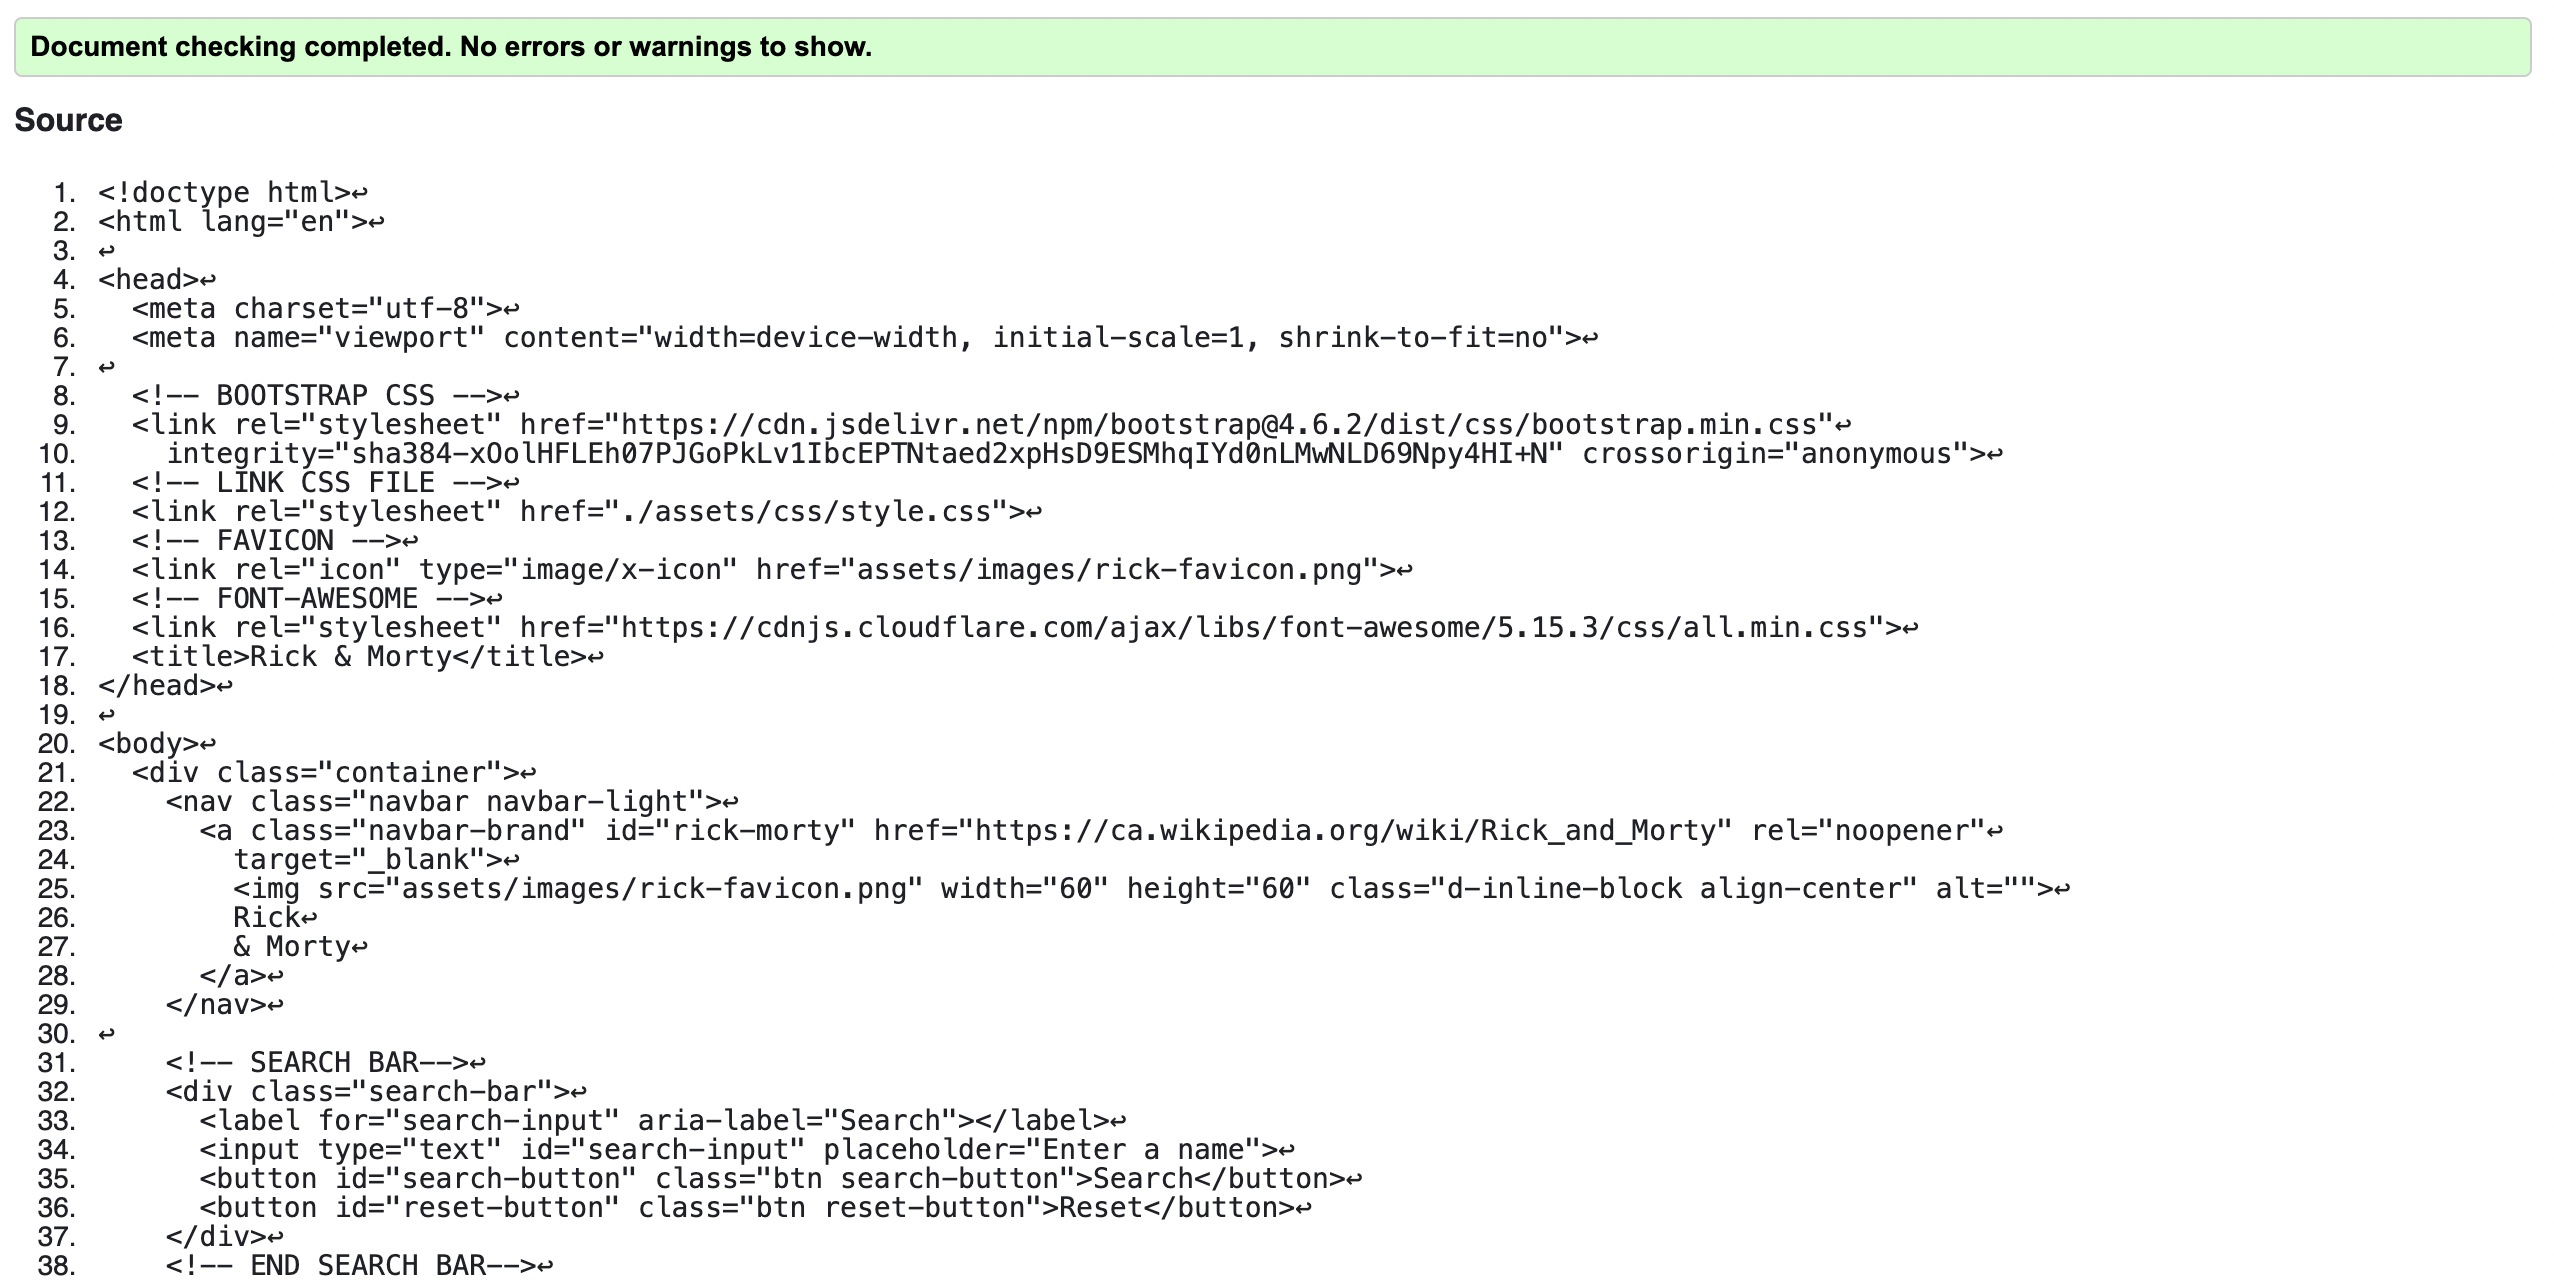
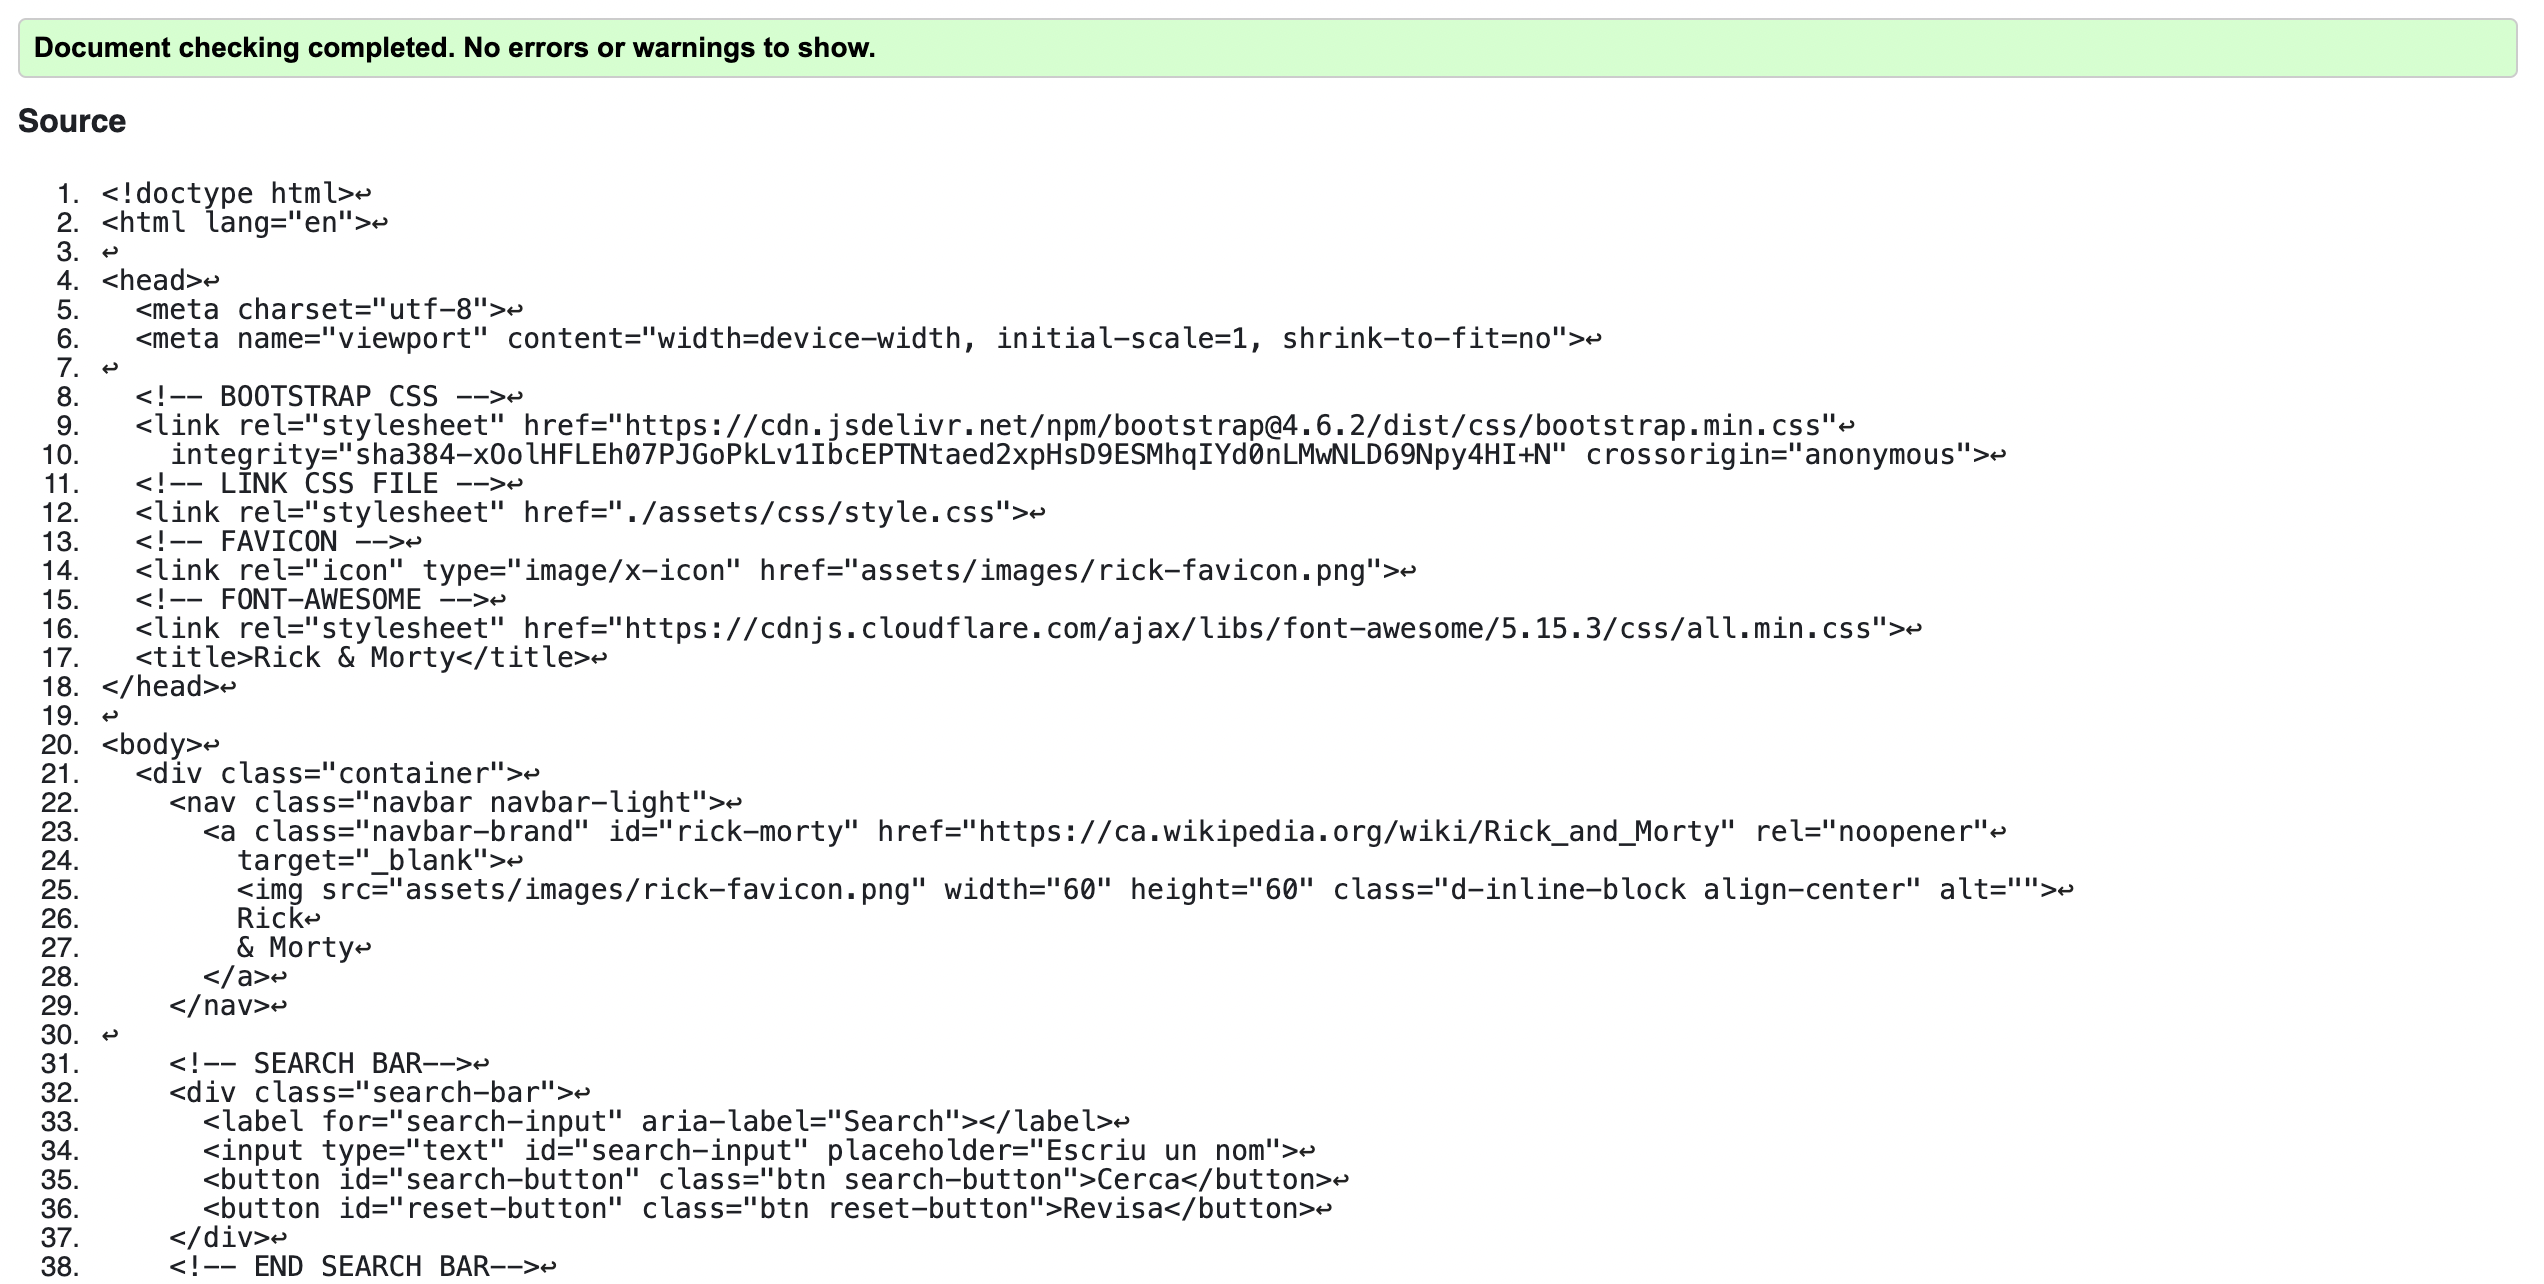
Fix card height and laout bugs. Update README.

Changed region(s): [[0.0, 0.0312, 0.8074, 0.9969], [0.9627, 0.0312, 0.9937, 0.0623]]

diff --git a/assets/js/script.js b/assets/js/script.js
@@ -47,15 +47,15 @@ async function fetchCharacters() {
 
       const statusText = document.createElement('p');
       statusText.classList.add('card-text');
-      statusText.innerHTML = `<u class="card-text-headings">Status</u>: ${character.status}`;
+      statusText.innerHTML = `<u class="card-text-headings">Estat</u>: ${character.status}`;
 
       const speciesText = document.createElement('p');
       speciesText.classList.add('card-text');
-      speciesText.innerHTML = `<u class="card-text-headings">Species</u>: ${character.species}`;
+      speciesText.innerHTML = `<u class="card-text-headings">Espècie</u>: ${character.species}`;
 
       const locationText = document.createElement('p');
       locationText.classList.add('card-text');
-      locationText.innerHTML = `<u class="card-text-headings">Location</u>: ${character.location.name}`;
+      locationText.innerHTML = `<u class="card-text-headings">Localització</u>: ${character.location.name}`;
 
       cardBody.appendChild(name);
       cardBody.appendChild(statusText);
@@ -104,8 +104,6 @@ window.addEventListener('scroll', toggleScrollToTopButton);
 
 // EventListener: scroll to top when clicked
 scrollButton.addEventListener('click', scrollToTop);
-
-
 
 
 // SEARCH A CHARACTER

diff --git a/index.html b/index.html
@@ -31,11 +31,12 @@
     <!-- SEARCH BAR-->
     <div class="search-bar">
       <label for="search-input" aria-label="Search"></label>
-      <input type="text" id="search-input" placeholder="Enter a name">
-      <button id="search-button" class="btn search-button">Search</button>
-      <button id="reset-button" class="btn reset-button">Reset</button>
+      <input type="text" id="search-input" placeholder="Escriu un nom">
+      <button id="search-button" class="btn search-button">Cerca</button>
+      <button id="reset-button" class="btn reset-button">Revisa</button>
     </div>
     <!-- END SEARCH BAR-->
+
 
     <!-- DISPLAY CARDS -->
     <div class="row character-container" id="character-container">
@@ -48,7 +49,7 @@
         <i class="fab fa-octopus-deploy octo-con"></i>
       </button>
       <br>
-      Back to top
+      Cap amunt
     </div>
     <!-- END SCROLL TO TOP BUTTON -->
 

diff --git a/assets/css/style.css b/assets/css/style.css
@@ -52,6 +52,7 @@ body {
 }
 
 /* CHARACTER CARDS */
+
 #rick-morty,
 .card-title {
     font-family: 'Bangers', sans-serif;
@@ -70,7 +71,7 @@ body {
     display: flex;
     flex-direction: column;
     margin: 10px;
-    min-height: 592px;
+    min-height: 600px;
 }
 
 .card-img-top {
@@ -115,17 +116,16 @@ body {
     color: #16FB1F;
 }
 
-/* FOOTER START */
+/* FOOTER */
 footer {
     background-color: #CFF9FF;
     border: 4px solid #16FB1F;
     border-radius: 35px;
     max-width: 90%;
-    margin: 0 auto;
     text-align: center;
     font-size: 150%;
     width: 40%;
-    margin: 15px auto;
+    margin: 20px auto;
     border-radius: 30px;
 }
 
@@ -169,11 +169,14 @@ ul {
     }
 }
 
-
 @media only screen and (max-width: 380px) {
 
     .search-button,
     .reset-button {
         padding: 6px;
+    }
+
+    #search-input {
+        padding-left: 6px;
     }
 }

diff --git a/README.md b/README.md
@@ -4,10 +4,10 @@ Per llegir la documentació d'aquest projecte en català, cliqueu [aquí](/READM
 
 Please find documentation below regarding my test submitted for participation in the Jump2Digital Hackathon. 
 
-<!-- A link to the live site can be found [here](https://kaylaesmith1.github.io/jump2digital-hackathon/). -->
+ <!-- A link to the live site can be found [here](https://kaylaesmith1.github.io/jump2digital-hackathon/).
 
 
-<!-- ![Responsive site design](/documentation/readme_images/amiresponsive.png)
+[Responsive site design](/documentation/readme_images/amiresponsive.png)
 
 
 ## Table of Contents
@@ -54,10 +54,22 @@ The 'Bangers' font is the main font used on the page for headers and card titles
 
 The 'Sans-serif' font is noted as a backup and will be used in the event that the main fonts aren't imported correctly to the site. These font styles were chosen for their ease of legibility and general letter spacing and were imported from [Google Fonts](https://fonts.google.com/). 
 
-<!-- ## Testing
+## Testing
 
+Testing was done by the creator on various device sizes and on Chrome, Firefox and Safari (laptop and iphone). Friends also tested the application on their personal devices and reported a smooth and user-friendly experience with all interactive aspects working well.
 
-### Error Pages - ADD ERROR PAGE -->
+Validation was done on the HTML, CSS and JavaScript pages and Wave was used to validate the site as a whole. The results of these tests are below:
+<strong>HTML</strong>
+![HTML validation](/assets/images/validate-html.png)
+
+<strong>CSS</strong>
+![CSS validation](/assets/images/validate-css.png)
+
+<strong>JavaScript</strong>
+![JavaScript validation](/assets/images/validate-js.png)
+<strong>Wave</strong>
+![Wave validation](/assets/images/validate-wave.png)
+One error is shown when the page is validated using Wave. To create the button with the desired styling, I intentionally left the button itself blank and put the 'Back to top' sentence under it as a text snippet. As such, the button itself remains empty, which appears as an error in Wave. I chose to leave this error as it doesn't affect the functionality of the page itself.
 
 
 ## Deployment
@@ -79,36 +91,47 @@ The following steps were taken to deploy the live website from the GitHub reposi
 
 ## Languages Used
 
-- Python
 - HTML
 - CSS
 - Javascript
 
 ## Frameworks - Libraries - Programs Used 
-<!-- - [Am I Responsive](https://amiresponsive.co.uk/) - Used to verify responsiveness of website on different devices.
-- [Favicon](https://favicon.io/) - Used to create the wine glass icon for the browser tab.
-- [Font Awesome](https://fontawesome.com/) - Used for icons on the home page and stars on the About page.
-- [GitHub](https://github.com/) - Used for version control and agile methodology.
-- [Google Fonts](https://fonts.google.com/) - Imported and used to change fonts on pages from default fonts.
-- [W3C](https://www.w3.org/) - Used for HTML & CSS Validation.
-- [PEP8 Online](https://pep8ci.herokuapp.com/#) - Used to validate all Python code pages in the project.
+- [Am I Responsive](https://amiresponsive.co.uk/) - Used to verify responsiveness of website on different device sizes.
+- [Favicon](https://favicon.io/) - Used to create the icon for the browser tab.
+- [Font Awesome](https://fontawesome.com/) - Used for footer icons and the 'Back to top' button.
+- [GitHub](https://github.com/) - Used to house the project repository.
+- [Google Fonts](https://fonts.google.com/) - Imported and used to style fonts on the page.
+- [W3C](https://www.w3.org/) - Used for HTML & CSS validation.
 - [JSHint](https://jshint.com/) - Used to validate the JavaScript page.
-- [Coolors](https://coolors.co/) - Used to create color scheme.
+- [Coolors](https://coolors.co/) - Used to create the color scheme.
 - [Bootstrap](https://getbootstrap.com/docs/4.6/getting-started/introduction/): CSS used for developing responsiveness and styling the website.
-- [Google](https://www.google.com/): All images used were sourced from a Google search. -->
+- [Google](https://www.google.com/): Images used were sourced from a Google search.
 
 
 ## Bugs
+Two bugs were identified and subsequently solved:
+1. <strong>Card height</strong>
+![BUG: card height](/assets/images/BUG-card-height.png)
+Adding a min-height to the CSS for the 'card' class solved this problem and now all cards are the same height.
 
-## Future Implementations
+2. <strong>Character search layout</strong>
+![BUG: search layout](/assets/images/BUG-search-layout.png)
+There was an issue with the card layout when a character was searched. Instead of the matching cards being displayed in neat rows, the unmatched cards were hidden but taking up the original space. This problem was solved by creating another container in the JS file.
 
-## Credits
 
-<!-- - [W3Schools](https://www.w3schools.com/)
-- [Django Docs](https://docs.djangoproject.com/en/4.0/)
-- [Bootstrap 4.6 Docs](https://getbootstrap.com/docs/4.6/getting-started/introduction/)
-- [Stack Overflow](https://stackoverflow.com/)
-- [Code Institute - Blog Walkthrough Project](https://github.com/Code-Institute-Solutions/Django3blog)
-- [YouTube Video for pop up messages](https://www.youtube.com/watch?v=lRrrLCrZDxI) - Used for contact form message pop ups on successful submission and errors. 
--  This youtube video for fetching api data: https://www.youtube.com/watch?v=zUcc4vW-jsI 
--->
+To my knowledge, there are no existing bugs on the website. 
+
+<!-- ## Future Implementations -->
+
+## Credits 
+- [Bootstrap 4.6 Docs](https://getbootstrap.com/docs/4.6/getting-started/introduction/) were used for stylistic implementations.
+- This [YouTube video](https://www.youtube.com/watch?v=zUcc4vW-jsI) to help with fetching API data.
+
+The following websites were used for troubleshooting:
+- [W3Schools](https://www.w3schools.com/)
+- [Stack Overflow](https://stackoverflow.com/) 
+- [Chat GPT](https://chat.openai.com/)
+
+During the testing phase, a friend and colleague, Mia, was vital in helping fix card height and search layout bugs. Thanks, Mia!
+
+
